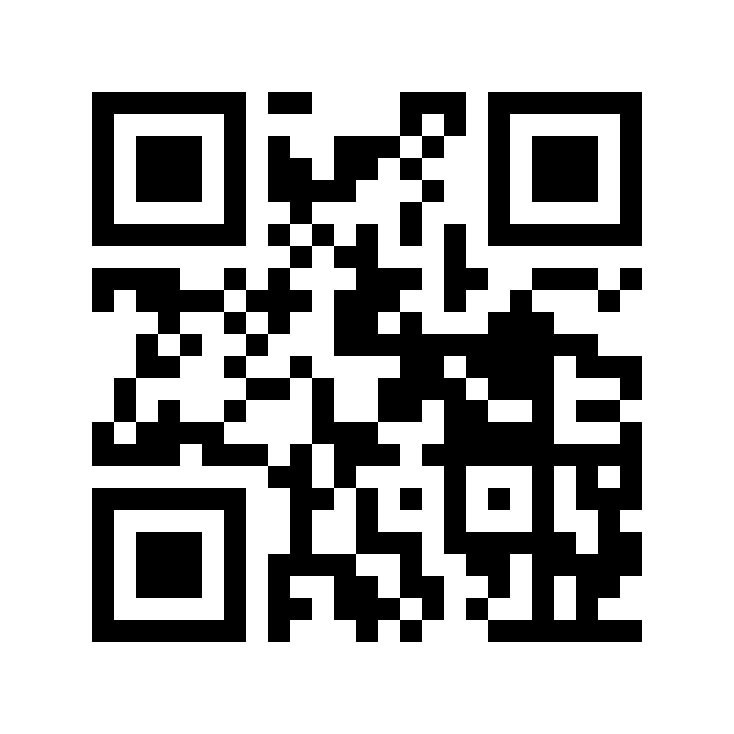
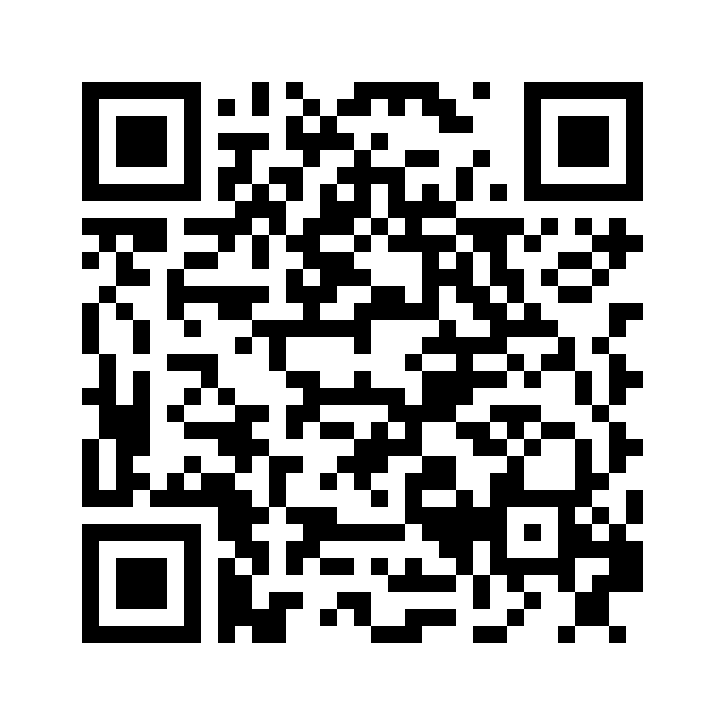
Video de bienvenida como marcador y QR hacia la colección
- El espacio del video queda vacío ("Video de bienvenida próximamente"),
  con el código del iframe comentado para activarlo después.
- El QR ahora abre la colección (https://samuelsalcedo1928-ui.github.io/Lunaire-Rose/#/coleccion).

Claude-Session: https://claude.ai/code/session_01PKi3mV5dpqDs67KMkWRfKN

Changed region(s): [[0.091, 0.091, 0.9103, 0.9103]]

diff --git a/index.html b/index.html
@@ -69,20 +69,18 @@
       <div class="welcome-text reveal">
         <p class="eyebrow">Bienvenida</p>
         <h2 class="section-title">Conoce Lunaire Rose</h2>
-        <p class="welcome-lead">Un recorrido breve por nuestra boutique y lo que hacemos. Mira el video o escanea el código con tu celular.</p>
+        <p class="welcome-lead">Muy pronto, un recorrido en video por nuestra boutique. Mientras tanto, escanea el código con tu celular y conoce la colección.</p>
       </div>
       <div class="welcome-media reveal">
+        <!-- Cuando esté el video: reemplaza el marcador por
+             <iframe src="https://www.youtube-nocookie.com/embed/ID_DEL_VIDEO" title="Video de bienvenida a Lunaire Rose"
+               loading="lazy" allow="encrypted-media; picture-in-picture; fullscreen" allowfullscreen></iframe> -->
         <div class="video-frame">
-          <iframe id="welcome-video" title="Video de bienvenida a Lunaire Rose"
-            src="https://www.youtube-nocookie.com/embed/PWILmPGv274"
-            loading="lazy"
-            allow="encrypted-media; picture-in-picture; fullscreen"
-            referrerpolicy="strict-origin-when-cross-origin"
-            allowfullscreen></iframe>
+          <div class="video-empty"><span class="video-play" aria-hidden="true"></span><span>Video de bienvenida próximamente</span></div>
         </div>
         <figure class="qr-card">
-          <img src="assets/qr-bienvenida.png" alt="Código QR que abre el video de bienvenida de Lunaire Rose en YouTube" width="174" height="174">
-          <figcaption>Escanéalo para ver el video</figcaption>
+          <img src="assets/qr-bienvenida.png" alt="Código QR que abre la colección de Lunaire Rose" width="174" height="174">
+          <figcaption>Escanéalo para ver la colección</figcaption>
         </figure>
       </div>
     </div>

diff --git a/css/styles.css b/css/styles.css
@@ -842,3 +842,15 @@ body.lightbox-open { overflow: hidden; }
   .qr-card img { width: 112px; flex: none; }
   .contact-layout { padding-bottom: 56px; }
 }
+
+/* Marcador del video de bienvenida (hasta tener el video) */
+.video-empty {
+  height: 100%; display: flex; flex-direction: column; align-items: center; justify-content: center; gap: 16px; padding: 24px;
+  background: var(--bg-tile); border: 1px dashed rgba(201,162,75,0.4); color: var(--muted); text-align: center;
+  font-size: 13px; letter-spacing: 1.5px; text-transform: uppercase;
+}
+.video-play { width: 56px; height: 56px; border: 1px solid var(--accent); border-radius: 50%; position: relative; }
+.video-play::after {
+  content: ''; position: absolute; top: 50%; left: 54%; transform: translate(-50%, -50%);
+  border-style: solid; border-width: 9px 0 9px 15px; border-color: transparent transparent transparent var(--accent);
+}
